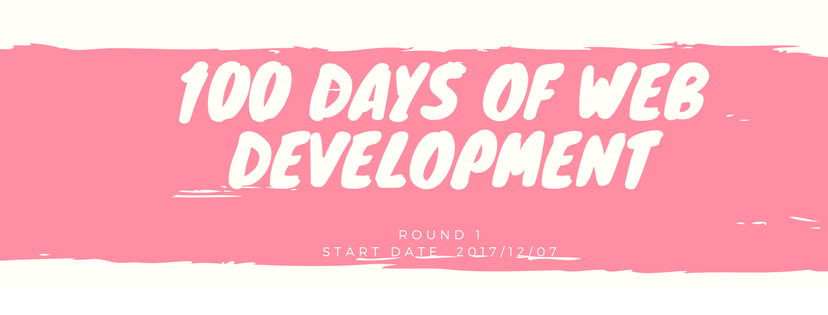
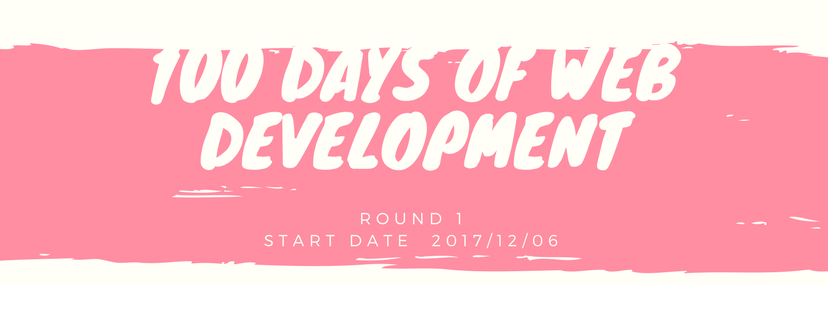
R1D18

Changed region(s): [[0.1812, 0.1429, 0.8756, 0.6], [0.3019, 0.6571, 0.6944, 0.8286]]

diff --git a/source/_posts/2017-12-06-100-Days-Of-Web-Development-Round-1.md b/source/_posts/2017-12-06-100-Days-Of-Web-Development-Round-1.md
@@ -10,6 +10,8 @@ tags:
 	- jQuery
 	- Bootstrap
 	- JavaScript
+	- Data Visualization
+	- 3D.js∆
 categories: 
 	- 100 Days Challenge
 	- Web Development
@@ -21,7 +23,7 @@ permalink: 100-Days-Of-Web-Development-Round-1
 
 Main Commitment: I will make projects to develope front-end develoment skill. 
 
-Start Date: 2017-12-07
+Start Date: 2017-12-06
 
 
 <!-- more -->
@@ -53,6 +55,19 @@ Start Date: 2017-12-07
 4. 60 Days
 5. 90 Days
 6. 100 Days
+
+## Project list
+
+* [Github Repo](https://github.com/huyingjie/tribute-zhugeliang) | [Project 1: Tribue](http://zhugeliang.yingjiehu.com/)
+* [Github Repo](https://github.com/huyingjie/projects-page) | [Project 2: Personal Portfolio](http://projects.yingjiehu.com/)
+* [Github Repo](https://github.com/huyingjie/randomquotemachine) | [Project 3: Random Quote Machine](http://randomquotemachine.yingjiehu.com/)
+* [Github Repo](https://github.com/huyingjie/theLocalWeather) | [Project 4: the Local Weather](http://localweather.yingjiehu.com/)
+* [Github Repo](https://github.com/huyingjie/wikipediaViewer) | [Project 5: A Wikipedia Viewer](http://wikipediaviewer.yingjiehu.com)
+* [Project 6: Visualize Data with a Bar Chart](https://codepen.io/yingjiehu/pen/Mrbmom)
+* Project 7: visualize Data with a Scatterplot Graph
+* Project 8: Visualize Data with a Heat Map
+* [Github Repo](https://github.com/huyingjie/Awesome-shiny-apps-for-statistics) | [Project 9: Awesome Shiny Apps for Statistics](http://asas.yingjiehu.com/)
+
 
 
 ## Template for Log
@@ -631,4 +646,39 @@ Learning data visualization is more boring than I expected. It seems more diffic
 * [ ]Change project status
 * [ ]Add new projects
 * [ ]Project 6: Visualize Data with a Bar Chart
+<hr>
+
+### Day 18: 2017-12-25 Monday 
+
+**Link**: 
+
+* [Github Repo](https://github.com/huyingjie/Awesome-shiny-apps-for-statistics) | [Project 9: Awesome Shiny Apps for Statistics](http://asas.yingjiehu.com/)
+* [Github Repo](https://github.com/huyingjie/randomquotemachine) | [Project 3: Random Quote Machine](http://randomquotemachine.yingjiehu.com/)
+
+**Today's Progress (achievements and frustrations)**: 
+
+* Changed colors in the [Project 3: Random Quote Machine](http://randomquotemachine.yingjiehu.com/).
+* Finished [Project 9: Awesome Shiny Apps for Statistics](http://asas.yingjiehu.com/)
+
+**Thoughts and Emotions:**
+
+`@crossey` on the gitter told me that colors in the [Project 3: Random Quote Machine](http://randomquotemachine.yingjiehu.com/) were not good. I guessed that colors were too vivid and eyes did not feel comfortable when seeing them. I found that most of the colors that had color names and beganb with "light" were suitable for eyes. 
+
+Yesterday's night, I suddenly had an idea to make a GitHub awesome list of Shiny Apps. The apps are specific for learning statistics, not showing results from data analysis. It is better if there will be a website automatically generated from `README.md` file from the GitHub repo, then the effort to keep the website and `README.md` being same will be zero. Usually, people contribute to an awesome list by editing `README.md`. It is the  owner's responsibility of the GitHub repo to sync between GitHub and the website. 
+
+How to sync automatically is the most difficult part for me. My blog is using Netlify to automatically deploy. I need to learn one templating engine to combine data in `README.md` and templates created by a templating engine by Netlify. I started to learning `Go` on the YouTube. I realized that `Go` was a completely new language and if I wanted to use it, I had to learn a lof things. Then I recalled [Front-End-Checklist](https://github.com/thedaviddias/Front-End-Checklist#table-of-contents) using `gulp`. Initially, I thought `gulp` was a template engine. After reading one tutorial, I knew it was not and can use it to create a web page without styling through `gulp-markdown`. `gulp-rename` is used to change the filename from `README.md` to `index.md`, then `gulp-markdown` generated `index.html`. The HTML codes inside `index.html` do not contain `head` and `body` elements. It turns out to be an advantage. `gulp-wrapper` adds `head` and `body` elements before and after the codes. The resulting website was successfully deployed by Nelify. I achieved to sync between `README.md` and the website.
+
+Today, I spent time in changing the website style and gathered Shiny apps.
+
+I worked more than 10 hours today. I am satisfied with the result. One thing needed to improve in the future is the styling of the site.
+
+![](img/Awesome-Shiny-Apps-for-Statistics.png)
+**Tomorrow's plan**
+
+* [ ]Study tutorial for 1 hour (not count towards the challenge)
+* [ ]Change project status
+* [ ]Add new projects
+* [ ][Github Repo](https://github.com/huyingjie/theLocalWeather) | [Project 4: the Local Weather](http://localweather.yingjiehu.com/)
+
+
 <hr>

diff --git a/source/_posts/2017-12-25-Awesome-Shiny-Apps-for-Statistics.md b/source/_posts/2017-12-25-Awesome-Shiny-Apps-for-Statistics.md
@@ -1,0 +1,22 @@
+---
+layout: post
+title: Awesome Shiny Apps for Statistics
+date: 2017-12-25
+tags: 
+	- Shiny
+	- R
+	- gulp
+categories: 
+	- [Projects]
+permalink: Awesome-Shiny-Apps-for-Statistics
+---
+![](/img/Awesome-Shiny-Apps-for-Statistics.png)
+<!-- more -->
+Yesterday's night, I suddenly had an idea to make a GitHub awesome list of Shiny Apps. The apps are specific for learning statistics, not showing results from data analysis. It is better if there will be a website automatically generated from `README.md` file from the GitHub repo, then the effort to keep the website and `README.md` being same will be zero. Usually, people contribute to an awesome list by editing `README.md`. It is the  owner's responsibility of the GitHub repo to sync between GitHub and the website. 
+
+How to sync automatically is the most difficult part for me. My blog is using Netlify to automatically deploy. I need to learn one templating engine to combine data in `README.md` and templates created by a templating engine by Netlify. I started to learning `Go` on the YouTube. I realized that `Go` was a completely new language and if I wanted to use it, I had to learn a lof things. Then I recalled [Front-End-Checklist](https://github.com/thedaviddias/Front-End-Checklist#table-of-contents) using `gulp`. Initially, I thought `gulp` was a template engine. After reading one tutorial, I knew it was not and can use it to create a web page without styling through `gulp-markdown`. `gulp-rename` is used to change the filename from `README.md` to `index.md`, then `gulp-markdown` generated `index.html`. The HTML codes inside `index.html` do not contain `head` and `body` elements. It turns out to be an advantage. `gulp-wrapper` adds `head` and `body` elements before and after the codes. The resulting website was successfully deployed by Nelify. I achieved to sync between `README.md` and the website.
+
+Today, I spent time in changing the website style and gathered Shiny apps.
+
+I worked more than 10 hours today. I am satisfied with the result. One thing needed to improve in the future is the styling of the site.
+
